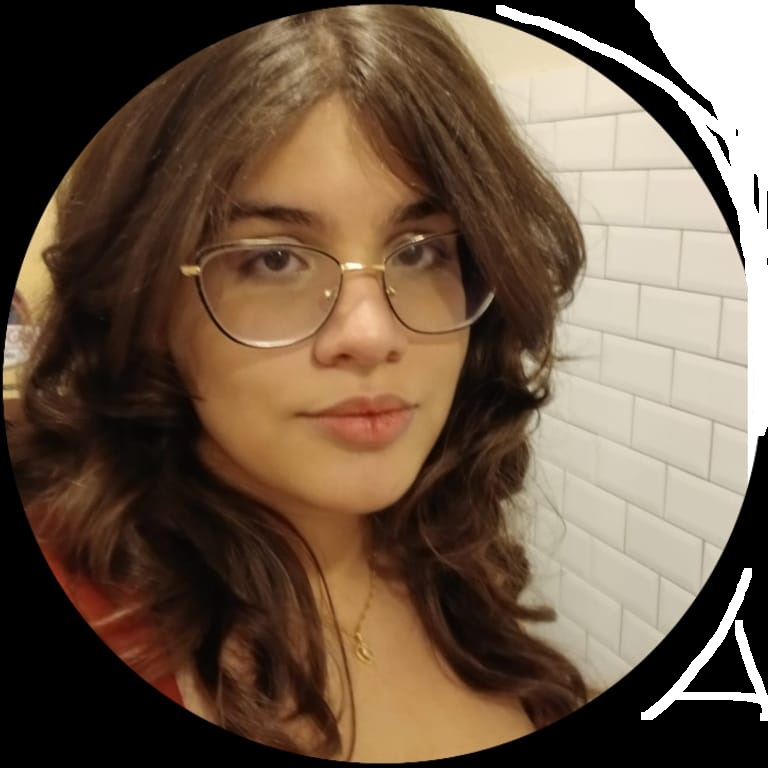
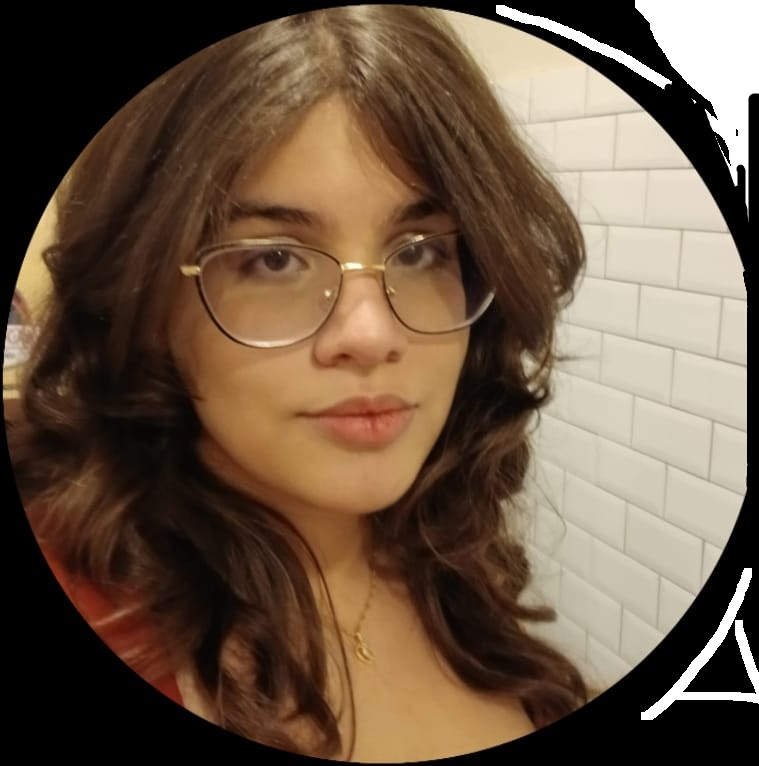
atualização
por algum motivo não ta deixando eu atualizar direto do vscode?????

diff --git a/style.css b/style.css
@@ -1,0 +1,296 @@
+<<<<<<< HEAD
+/* Gerais */
+*{
+  margin: 0;
+  padding: 0;
+  box-sizing: border-box;
+}
+body{
+  background-image: linear-gradient(#1fb8e3, #436b93,#6d436e,#8e2c50, #ad0431);
+}
+/* Cabeçalho */
+.cabecalho{
+  background-color: #233e45;
+  width: inherit;
+  height: min-content;
+}
+header>.cabecalho{
+  display: flex;
+  align-items: center;
+  justify-content: space-between;
+}
+header a{
+  color: #ead39d80;
+  text-decoration: none;
+  font-size: larger;
+  font-family: "Iosevka Charon", monospace;
+  display: inline-block;
+  transition: 0.2s;
+}
+header a:hover{
+  color: #ead39d;
+  transform: scale(1.05);
+}
+header nav ul{
+  list-style-type: none;
+}
+header nav ul li{
+  display: inline-block;
+  padding: 0 20px;
+}
+/* fim do cabeçalho */
+
+/* Texto */
+/* Texto inicio */
+h1{
+  color: #54100d;
+  font-size: 150px;
+  font-family: "coiny", system-ui;
+  padding-top: -30px;
+  margin-top: -50px;
+  padding-left: 20px;
+  text-shadow: 5px 5px red, -5px -5px #1fb8e3;
+}
+
+.titulo{
+  color: #54100d;
+  font-size: 30px;
+}
+
+.ti-dev{
+  color: #ead39d;
+  font-family: fantasy;
+  font-style: oblique;
+  font-size: 40px;
+  padding-left: 20px;
+}
+
+.tt-dev{
+  color: #737f35;
+  font-size: 25px;
+  padding-left: 20px;
+  padding-top: -5px;
+  margin-top: -5px;
+}
+/* fim texto inicio */
+
+/* Texto Sobre */
+.t-sob{
+  color: transparent;
+  font-size: 70px;
+  font-family: "Modak", system-ui;
+  margin-bottom: -10px;
+  -webkit-text-stroke: 3px #54100d;
+  position: relative;
+  z-index: 1;
+  padding-top: 5px;
+}
+.t-sob::after {
+  content: 'Quem';          
+  position: absolute;
+  top: 11px;                         
+  left: 6px;                        
+  color: #cc0000;                  
+  -webkit-text-stroke: 3px #cc0000; 
+  z-index: -1;                      
+  white-space: nowrap;              
+}
+.t-sob1{
+  color: transparent;
+  font-size: 70px;
+  font-family: "Modak", system-ui;
+  margin-bottom: -10px;
+  margin-top: -30px;
+  -webkit-text-stroke: 3px #54100d;
+  position: relative;
+  z-index: 1;
+}
+.t-sob1::after {
+  content: 'eu sou?';          
+  position: absolute;
+  top: 5px;                         
+  left: 5px;                        
+  color: #cc0000;                  
+  -webkit-text-stroke: 1px #cc0000; 
+  z-index: -1;                      
+  white-space: nowrap;              
+}
+
+h4{
+  color: #cc0000;
+  font-size: 25px;
+  font-family: Georgia, 'Times New Roman', Times, serif;
+}
+.text-sob{
+  color: #cc0000;
+  font-size: 21px;
+  font-family: Georgia, 'Times New Roman', Times, serif;
+}
+
+.t-skill{
+  font-family: "Rubik Doodle Shadow", system-ui;
+}
+
+/* Fim texto sobre */
+/* fim do texto */
+
+/* divisores */
+/* divisores inicio */
+.div-ini {
+  background-image: url(../imagens/papel.jpeg);
+  border: 5px solid #737f35;
+  border-radius: 20px;
+  border-top-width: 20px;
+  width: 1080px;
+  height: 250px;
+  display: flex;
+  flex-direction: row;
+  align-items: center;
+  justify-content: center;
+  align-self: center;
+  box-shadow: 5px 5px 0px #00000048;
+}
+
+.div-ini-pai{
+  display: flex;
+  align-items: center;
+  justify-content: center;
+  padding-bottom: 100px;
+  padding-top: 80px;
+  width: inherit;
+}
+
+.ini-tit{
+  display: flex;
+  width: 1000px;
+  height: 220px;
+  flex-direction: column;
+  justify-content: center;
+  align-self: center;
+}
+/* fim divisores inicio */
+/* Divisores sobre */
+.div-sob{
+  display: flex;
+  align-items: center;
+  justify-content: space-around;
+  padding-right: 80px;
+  padding-left: 100px;
+  width: inherit;
+}
+.div-sob-filho{
+  display: flex;
+  flex-direction: column;
+  justify-content: space-around;
+}
+.div-t-sob{
+  background-image: url(../imagens/papel.jpeg);
+  border: 5px solid #737f35;
+  border-radius: 20px;
+  border-top-width: 20px;
+  width: 300px;
+  height: 160px;
+  display: flex;
+  flex-direction: column;
+  align-items: start;
+  justify-content: center;
+  align-self: center;
+  box-shadow: 5px 5px 0px #00000048;
+  padding-left: 5px;
+}
+.div-text-sob{
+  background-image: url(../imagens/papel.jpeg);
+  border: 5px solid #737f35;
+  border-radius: 20px;
+  border-top-width: 20px;
+  width: 410px;
+  height: 400px;
+  display: flex;
+  flex-direction: column;
+  align-items: center;
+  justify-content: center;
+  align-self: center;
+  box-shadow: 5px 5px 0px #00000048;
+}
+/* Fim divisores sobre */
+/* fim dos divisores */
+
+/* Imagens */
+.self{
+  border-radius: 50%;
+  align-self: flex-end;
+  width: 225px;
+  box-shadow: -5px -5px #1fb8e3, 5px 5px red;
+}
+.guaxinim{
+  padding-top: 10px;
+  padding-left: 100px;
+  margin-right: -100px;
+}
+/* Fim das imagens */
+.div-estu button{
+  background-color: #233e45;
+  color:#ead39d;
+  padding: 5px;
+  border-radius: 12px;
+  border: none;
+  align-self: center;
+  font-family: 'Courier New', Courier, monospace;
+  cursor: pointer;
+=======
+*{
+  margin: 0;
+}
+body{
+  background-image: url(https://i.pinimg.com/736x/d2/71/1a/d2711a5bf8ff9a2165e54189cee4ccd1.jpg);
+}
+h1{
+  color: #54100d;
+  font-size: 103px;
+}
+.titulo{
+  color: #54100d;
+  font-size: 30px;
+}
+.t-sob{
+  color: #cc0000;
+  font-size: 91px;
+}
+.ini-tit{
+  display: flex;
+  width: 660px;
+  height: 220px;
+  flex-direction: column;
+  justify-content: center;
+  align-self: center;
+}
+.div-ini {
+  background-color: #ead39d;
+  border-radius: 5%;
+  width: 900px;
+  height: 220px;
+  display: flex;
+  flex-direction: row;
+  align-items: center;
+  justify-content: center;
+}
+.self{
+  border-radius: 50%;
+  align-self: flex-end;
+}
+.cabecario{
+  background-color: #233e45;
+  width:inherit;
+  display: flex;
+  align-items: center;
+  justify-content: space-between;
+}
+button{
+  background-color: #233e45;
+  color:#ead39d;
+  padding: 5px;
+  border-radius: 12px;
+  border: none;
+  align-self: center;
+>>>>>>> ec400f2feb2f1d2228d0a014e2a5244ad0b470a8
+}

diff --git a/index.html b/index.html
@@ -1,0 +1,98 @@
+<!DOCTYPE html>
+<html lang="pt-BR">
+<head>
+    <meta charset="UTF-8">
+    <meta name="viewport" content="width=device-width, initial-scale=1.0">
+    <!-- Google fonts -->
+    <link rel="preconnect" href="https://fonts.googleapis.com">
+    <link rel="preconnect" href="https://fonts.gstatic.com" crossorigin>
+    <link href="https://fonts.googleapis.com/css2?family=Coiny&family=Iosevka+Charon:ital,wght@0,300;0,400;0,500;0,700;1,300;1,400;1,500;1,700&family=Modak&family=Noto+Serif+Georgian:wght@100..900&family=Rubik+Doodle+Shadow&family=Sail&display=swap" rel="stylesheet">
+    <!-- fim GF -->
+    <link rel="stylesheet" href="estilos/style.css">
+    <title>portfólio</title>
+</head>
+<body>
+    <header>
+        <div class="cabecalho">
+            <div class="dev">
+                <h3 class="ti-dev">< DEV_</h3>
+                <h4 class="tt-dev">_ANA></h4>
+            </div><!-- dev -->
+            
+            <nav class="menu">
+                <ul>
+                    <li><a href="#">Inicio</a></li>
+                    <li><a href="#">Sobre</a></li>
+                    <li><a href="#">Estudos</a></li>
+                    <li><a href="#">Projetos</a></li>
+                    <li><a href="#">Contato</a></li>
+                </ul>
+            </nav><!-- menu -->
+        </div><!-- cabecalho -->
+    </header>
+    <section class="Inicio">
+        <div class="div-ini-pai">
+            <div class="div-ini">
+                <div class="ini-tit">
+                    <p class="titulo">Portfólio de </p>
+                    <h1>Ana Luiza!</h1>
+                </div><!-- ini-tit -->
+                <img src="imagens/Ana.jpeg" alt="Foto de Ana" class="self">
+            </div><!-- div-ini -->
+        </div>
+    </section><!-- inicio -->
+
+    <section class="Sobre">
+        <div class="div-sob-pai">
+            <div class="div-sob">
+                <div class="div-sob-filho">
+                    <div class="div-t-sob">
+                        <h2 class="t-sob">Quem<h2 class="t-sob1">eu sou?</h2></h2>
+                    </div><!-- div-t-sob -->
+                    <img src="../portfolio/imagens/guaxinim.png" alt="guaxinim no computador" class="guaxinim">
+                </div><!-- div-sob-filho -->
+                <div class="div-text-sob">
+                    <h4>< Olá, meu nome é Ana Luiza ></h4>
+                    <p class="text-sob">Sou aluna do primeiro período de Ciência da Computação na CESAR School.
+                        <br>----------------------------------------------------- <br>
+                        Meu interesse por essa área surgiu do desejo de unir criatividade e raciocínio lógico em uma mesma profissão. Por isso, pesquisei diferentes campos de atuação até encontrar na tecnologia a área com a qual mais me identifico. Atualmente, tenho um interesse especial pelo desenvolvimento de jogos, pois ele combina desafios técnicos com a criação de experiências interativas e inovadoras.
+                    </p><!-- text-sob -->
+                </div><!-- div-text-sob -->
+            </div><!-- div-sob -->
+            <div class="div-skill">
+                <h2 class="t-skill">Minhas Skills:</h2>
+            </div><!-- div-skill -->
+        </div><!-- div-sob-pai -->
+    </section><!-- sobre -->
+
+    <section class="Estudos">
+        <div class="div-est">
+            <h2 class="t-estu">< Como eu estudo > </h2>
+            <p class="text-estu">
+                Estudo principalmente por meio de videoaulas e pesquisas complementares. Em conteúdos práticos, reforço o aprendizado com revisões e exercícios, buscando sempre aplicar os conceitos estudados.
+            </p><!-- text-edu -->
+        </div><!-- div-est -->
+        <div class="div-estu">
+            <button class="youtube">Canais do youtube</button>
+            <button class="spotify">Playlists para estudar</button>
+        </div><!-- div-estu -->
+    </section><!-- estudos -->
+
+    <section class="Projetos">
+        <div class="div-proj">
+            <h2 class="t-proj">Meus projetos</h2>
+            <p class="text-proj">Em breve</p>
+        </div><!-- div-proj -->
+    </section><!-- projetos -->
+
+    <section class="Contato">
+        <h2 class="t-cont">Como me contatar</h2>
+        <div class="div-cont-links">
+            <a href="">Email</a><br>
+            <a href="">Linkedin</a><br>
+            <a href="">GitHub</a>
+        </div><!-- div-cont-links -->
+    </section><!-- contato -->
+
+</body>
+</html>
